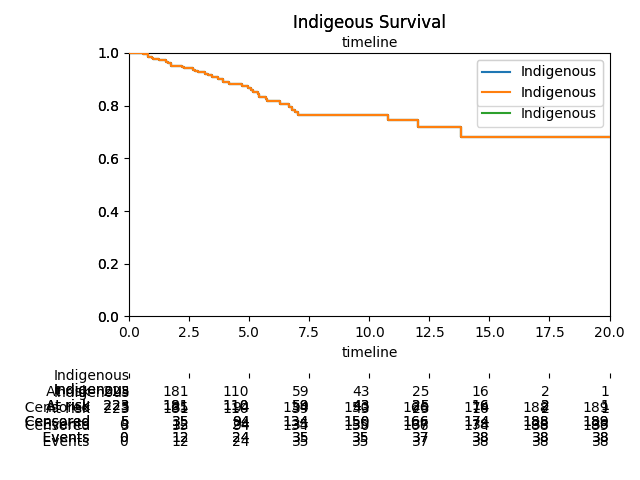
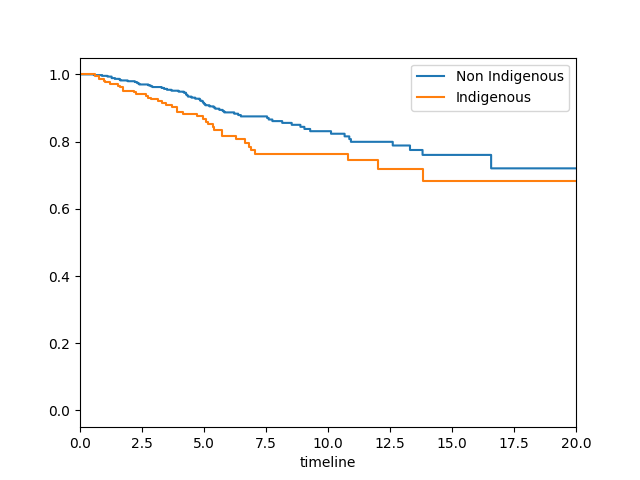
Auto categorization for discriminator, new docuemntation window

diff --git a/docs.py b/docs.py
@@ -1,0 +1,99 @@
+import sys
+from PySide6 import QtWidgets, QtCore, QtGui
+from PySide6.QtWidgets import QWidget, QPushButton, QLabel, QFileDialog
+from PySide6.QtWidgets import (QTableWidget, QHBoxLayout, QVBoxLayout,
+                               QStackedLayout)
+from PySide6.QtCore import Qt
+
+
+welcome_text = """
+Welcome to Survalyser!
+...
+"""
+
+load_text = """
+To load data into survalyser, click the 'Load Data' button
+in the main menu, and select the file you'd like to load data
+from. If you encounter issues, it may be due to one of the following
+reasons:
+...
+"""
+
+spreadsheet_text = """
+The spreadsheet view ....
+...
+"""
+
+analyse_text = """
+When analysing data...
+...
+"""
+
+
+
+class DocumentationTextArea(QWidget):
+    def __init__(self, parent):
+        super().__init__(parent)
+
+        self.layout = QStackedLayout()
+
+        self.welcome_text = QLabel(welcome_text)
+        self.load_text = QLabel(load_text)
+        self.spreadsheet_text = QLabel(spreadsheet_text)
+        self.analyse_text = QLabel(analyse_text)
+
+        self.layout.addWidget(self.welcome_text)
+        self.layout.addWidget(self.load_text)
+        self.layout.addWidget(self.spreadsheet_text)
+        self.layout.addWidget(self.analyse_text)
+
+        self.setLayout(self.layout)
+
+
+class DocumentationButtonArrea(QWidget):
+    def __init__(self, parent, text_area):
+        super().__init__(parent)
+
+        self.layout = QVBoxLayout()
+        self.layout.setAlignment(Qt.AlignTop)
+
+        self.welcome_button = QPushButton("Welcome")
+        self.load_button = QPushButton("Loading Data")
+        self.spreadsheet_button = QPushButton("Spreadsheet View")
+        self.analyse_button = QPushButton("Analysing Data")
+
+        self.welcome_button.clicked.connect(parent.welcome)
+        self.load_button.clicked.connect(parent.load)
+        self.spreadsheet_button.clicked.connect(parent.spreadsheet)
+        self.analyse_button.clicked.connect(parent.analyse)
+
+        self.layout.addWidget(self.welcome_button)
+        self.layout.addWidget(self.load_button)
+        self.layout.addWidget(self.spreadsheet_button)
+        self.layout.addWidget(self.analyse_button)
+
+        self.setLayout(self.layout)
+
+
+class DocumentationWindow(QWidget):
+    def __init__(self, parent):
+        super().__init__(parent)
+        self.layout = QHBoxLayout()
+        self.text_area = DocumentationTextArea(self)
+        self.button_area = DocumentationButtonArrea(self, self.text_area)
+
+        self.layout.addWidget(self.button_area)
+        self.layout.addWidget(self.text_area)
+        self.setLayout(self.layout)
+
+    def welcome(self):
+        self.text_area.layout.setCurrentIndex(0)
+
+    def load(self):
+        self.text_area.layout.setCurrentIndex(1)
+
+    def spreadsheet(self):
+        self.text_area.layout.setCurrentIndex(2)
+
+    def analyse(self):
+        self.text_area.layout.setCurrentIndex(3)

diff --git a/analyser.py b/analyser.py
@@ -4,27 +4,57 @@ import lifelines as life
 
 
 def get_kaplan(data, time_col, event_col, discriminator_col):
-    print("time col:" + time_col)
-    print("event col:" + event_col)
 
     indig_series = data["indigenous?"] == "Indigenous"
-    kmf = life.KaplanMeierFitter()
-    kmf.fit(data.loc[indig_series, "brca-time"],
-            data.loc[indig_series, "brca-event"],
-            label="Indigenous")
 
-    # we can easily plot the survival curve as well
-    # we set ci_show = False to hide confidence intervals
-    res = kmf.plot(ci_show=False,
-                   title="Indigeous Survival",
-                   xlim=(0, 20),
-                   ylim=(0, 1),
-                   at_risk_counts=True)
+    kmf_indig = life.KaplanMeierFitter()
+    kmf_nonindig = life.KaplanMeierFitter()
 
-    out = kmf.plot(ci_show=False, ax=res, at_risk_counts=True, xlim=(0, 20))
+    # step 1: find out all unique values for discriminator
+    cat = data[discriminator_col].unique()
 
-    # out.get_figure().savefig("test-data/test.png")
-    return out.get_figure()
+    # step 2: create fitters for each value & fit data
+    fitters = {}
+    for val in cat:
+        fitter = life.KaplanMeierFitter()
+        fitters[val] = fitter
+        selector = data[discriminator_col] == val
+        fitter.fit(data.loc[selector, time_col],
+                   data.loc[selector, event_col],
+                   label=val)
+
+    # step 3: plot the data
+    # TODO: title
+    ax = None
+    for (val, fitter) in fitters.items():
+        ax = fitter.plot(ci_show=False,
+                         xlim=(0, 20),
+                         ax=ax)
+
+
+    # kmf_indig.fit(data.loc[indig_series, time_col],
+    #               data.loc[indig_series, event_col],
+    #               label="Indigenous")
+
+    # # we can easily plot the survival curve as well
+    # # we set ci_show = False to hide confidence intervals
+    # ax = kmf_indig.plot(ci_show=False,
+    #                     title="Indigeous Survival",
+    #                     xlim=(0, 20))
+
+    # kmf_nonindig.fit(data.loc[~indig_series, "brca-time"],
+    #                  data.loc[~indig_series, "brca-event"],
+    #                  label="Non Indigenous")
+
+    # ax = kmf_nonindig.plot(ci_show=False,
+    #                        xlim=(0, 20),
+    #                        ax=ax)
+
+    # plt = life.plotting.add_at_risk_counts(kmf_indig,
+    #                                        kmf_nonindig,
+    #                                        ax=ax)
+    return ax.get_figure()
+
 
 def to_days(time):
     return time.days

diff --git a/main.py b/main.py
@@ -8,6 +8,7 @@ import pandas as pd
 
 # other parts of program
 from spreadsheet import SpreadSheetWindow
+from docs import DocumentationWindow
 
 
 class MainWindow(QWidget):
@@ -23,14 +24,17 @@ class MainWindow(QWidget):
         self.resume_btn = QPushButton("Resume")
         self.save_btn = QPushButton("Saves")
         self.load_btn = QPushButton("Load Data")
+        self.doc_btn = QPushButton("Documentation")
 
         self.resume_btn.clicked.connect(parent.on_resume)
         self.save_btn.clicked.connect(parent.on_save)
         self.load_btn.clicked.connect(parent.on_load)
+        self.doc_btn.clicked.connect(parent.on_doc)
 
         self.layout.addWidget(self.resume_btn)
         self.layout.addWidget(self.save_btn)
         self.layout.addWidget(self.load_btn)
+        self.layout.addWidget(self.doc_btn)
 
         self.setLayout(self.layout)
 
@@ -41,10 +45,12 @@ class SurvalyserMain(QWidget):
 
         self.main_window = MainWindow(self)
         self.spreadsheet_window = SpreadSheetWindow(self)
+        self.doc_window = DocumentationWindow(self)
 
         self.layout = QStackedLayout()
         self.layout.addWidget(self.main_window)
         self.layout.addWidget(self.spreadsheet_window)
+        self.layout.addWidget(self.doc_window)
 
         self.setLayout(self.layout)
 
@@ -64,10 +70,15 @@ class SurvalyserMain(QWidget):
         self.layout.setCurrentIndex(1)
 
     def on_resume(self):
-        pass
+        dataframe = pd.read_csv('test-data/indigenous-clean.csv')
+        self.spreadsheet_window.set_data(dataframe)
+        self.layout.setCurrentIndex(1)
 
     def on_save(self):
         pass
+
+    def on_doc(self):
+        self.layout.setCurrentIndex(2)
 
 
 def main():

diff --git a/spreadsheet.py b/spreadsheet.py
@@ -11,6 +11,7 @@ class SpreadSheetWindow(QWidget):
         self.layout = QHBoxLayout()
         self.sidebar = QWidget()
         self.sidebar.layout = QVBoxLayout()
+        self.sidebar.layout.setAlignment(Qt.AlignTop)
 
         self.select_time_btn = QPushButton("Select Time")
         self.select_event_btn = QPushButton("Select Event")
@@ -58,7 +59,6 @@ class SpreadSheetWindow(QWidget):
             for row in range(0, self.data.shape[0]):
                 self.table.item(row, old).setBackground(Qt.white)
         col = self.table.currentColumn()
-        self.time_col = col
         for row in range(0, self.data.shape[0]):
             self.table.item(row, col).setBackground(color)
 
@@ -79,9 +79,9 @@ class SpreadSheetWindow(QWidget):
             self.discrim_col is None or self.event_col is None):
             print("must have data, time, event, discriminator")
         else:
-            discriminator = self.data.columns[self.discrim_col]
             time = self.data.columns[self.time_col]
             event = self.data.columns[self.event_col]
+            discriminator = self.data.columns[self.discrim_col]
 
             plot = analyser.get_kaplan(self.data, time, event, discriminator)
 
@@ -89,4 +89,5 @@ class SpreadSheetWindow(QWidget):
                                                     "Open Dataset",
                                                     ".",
                                                     "Image files (*.png)")
-            plot.savefig(file_name[0])
+            if file_name[0] != '':
+                plot.savefig(file_name[0])
